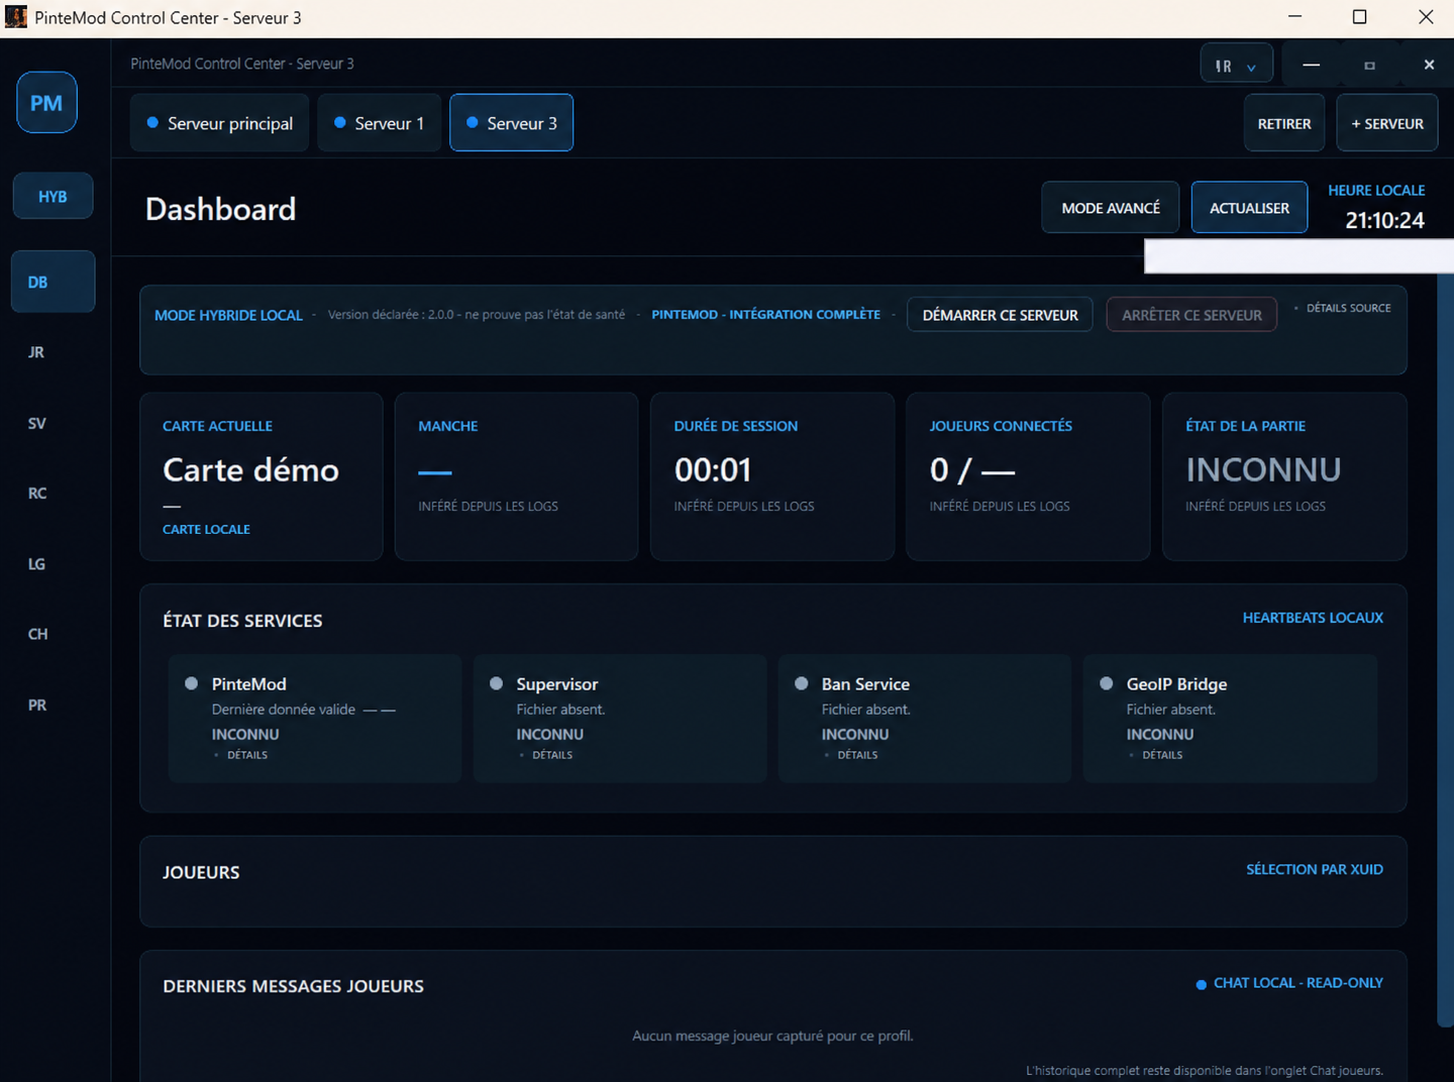
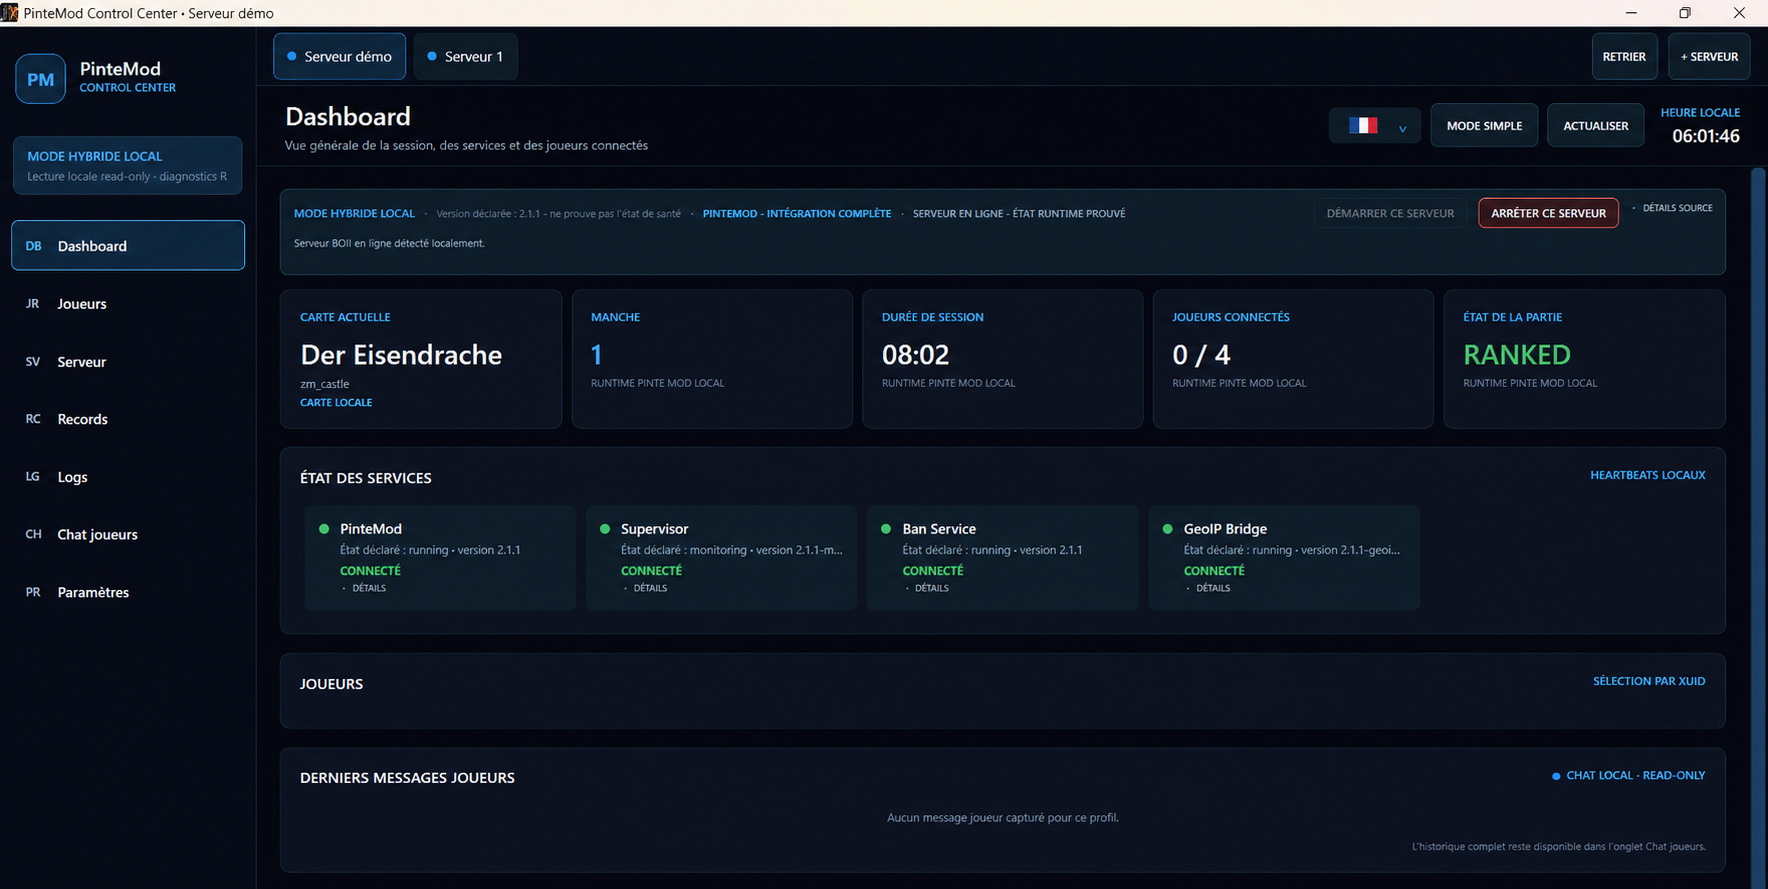
fix: keep privacy tests independent from removed internal files

diff --git a/app/tests/PinteMod.ControlCenter.Tests/FinalPrivacyRegressionTests.cs b/app/tests/PinteMod.ControlCenter.Tests/FinalPrivacyRegressionTests.cs
@@ -12,13 +12,9 @@ public sealed partial class FinalPrivacyRegressionTests
     {
         var repositoryRoot = FindRepositoryRoot();
         var files = Directory.EnumerateFiles(
-                Path.Combine(repositoryRoot, "app", "src"),
-                "*.cs",
-                SearchOption.AllDirectories)
-            .Concat(Directory.EnumerateFiles(
-                Path.Combine(repositoryRoot, "contracts"),
-                "*.json",
-                SearchOption.TopDirectoryOnly));
+            Path.Combine(repositoryRoot, "app", "src"),
+            "*.cs",
+            SearchOption.AllDirectories);
 
         foreach (var file in files)
         {
@@ -57,8 +53,7 @@ public sealed partial class FinalPrivacyRegressionTests
     {
         for (var current = new DirectoryInfo(AppContext.BaseDirectory); current is not null; current = current.Parent)
         {
-            if (Directory.Exists(Path.Combine(current.FullName, "app")) &&
-                Directory.Exists(Path.Combine(current.FullName, "contracts")))
+            if (File.Exists(Path.Combine(current.FullName, "app", "PinteMod.ControlCenter.sln")))
             {
                 return current.FullName;
             }
